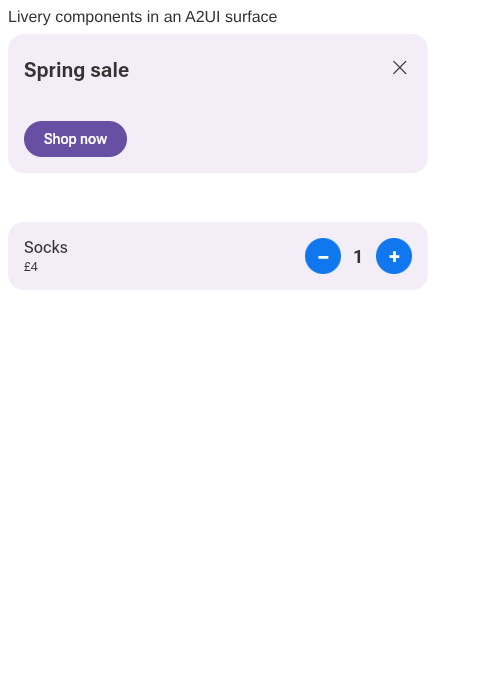
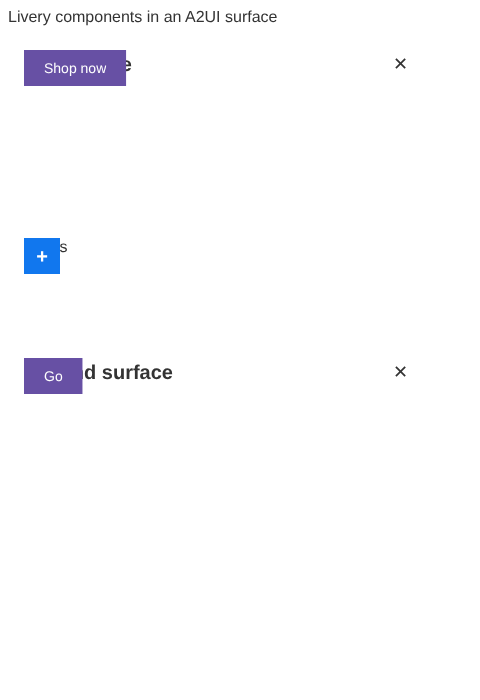
docs: the web component on the TypeScript player, and its known gaps
Claude-Session: https://claude.ai/code/session_017xSuvptvDKqjeZ4p7Mu1Nr

diff --git a/web/a2ui/src/catalog.ts b/web/a2ui/src/catalog.ts
@@ -224,6 +224,15 @@ class LiveryElement extends A2uiLitElement {
       if (previous !== undefined) session.release(previous);
     }
 
+    /**
+     * A host named action, exactly as the player's callback delivers one. @internal For tests: the
+     * TypeScript player doesn't fire these templates' taps yet (docs/A2UI.md), so the browser test
+     * delivers the action the document would send.
+     */
+    liveryHostAction(a: NamedAction): Promise<void> {
+      return this.onAction(a);
+    }
+
     private async onAction(a: NamedAction): Promise<void> {
       const api = this.livery;
       if (this.render_ === undefined || !api) return;

diff --git a/docs/A2UI.md b/docs/A2UI.md
@@ -273,7 +273,7 @@ action kind.
 | `livery publish` | CLI | writes `a2ui-catalog.json` beside `manifest.json`, so an agent in any language (A2UI's agent SDKs are Python and TypeScript) is prompted with the same schema the clients advertise |
 | `livery-mcp` | CLI | `a2ui_component_schema(contract)` and `validate_a2ui(message)`, for an agent authoring an A2UI response against a catalog |
 | `livery-web` *(built)* | Wasm (browsers, Node), and the JVM for its tests | **The pipeline, for the web.** `LiveryA2uiWeb`: the playable components, `render` (catalog selection or the agent's admitted document, `ContractBinder`, then `TemplateInstantiator` writes the values in), and `action` (`ActionGate`, then the agent, a `set`, or the page's handler), exported to JavaScript as a small JSON API. `WebCrypto` in `livery-client` verifies signatures and blobs |
-| `@livery/a2ui` *(built, `web/a2ui`)* | browsers | **Renders on the web.** `liveryCatalog(session, {catalogId, playerUrl})`: A2UI's basic catalog plus one Lit component (`A2uiLitElement`) per contract, its Zod schema from A2UI's own dynamic types, playing `livery-web`'s bytes in rc-players' Wasm player (`@yschimke/remote-compose-player-cmp`) |
+| `@livery/a2ui` *(built, `web/a2ui`)* | browsers | **Renders on the web.** `liveryCatalog(session, {catalogId})`: A2UI's basic catalog plus one Lit component (`A2uiLitElement`) per contract, its Zod schema from A2UI's own dynamic types, drawing in the page with the TypeScript Remote Compose player and setting named values live (see the gaps below) |
 | Swift `LiveryA2UI` | iOS, macOS | the same component over `LiveryTemplateView`, for A2UI's SwiftUI renderer once it is published |
 
 ### One source, two A2UI artifacts on Compose
@@ -294,15 +294,22 @@ moves with it, as a2ui-catalog does.
 *Built*: [`web/a2ui`](../web/a2ui) (`@livery/a2ui`) over [`livery-web`](../livery-web), checked in
 headless Chromium by CI (`web` job).
 
-![The sample catalog's promo banner and quantity row in an A2UI surface, in headless Chromium](images/a2ui-web.png) There is no TypeScript port: the web runs Kotlin's own
+![The sample catalog in an A2UI surface, drawn in the page by the TypeScript player, with its known gaps](images/a2ui-web.png) There is no TypeScript port: the web runs Kotlin's own
 selection, trust, binding, instantiation and action gate, compiled to Wasm, so it can't drift from
 the other clients and needs no fixture of its own beyond the ones Kotlin already passes.
 
-- **Drawing.** rc-players' Wasm player in an iframe, over its documented `postMessage` contract
-  (`rc-player-load` with bytes, `rc-player-state`, `cp-rc-host-named-action`). Its named values
-  are set only when the page loads, so instead `livery-web` writes the values into the document
-  (`TemplateInstantiator`, as for widget hosts) and the player swaps documents in place, keeping
-  its Wasm module. A data-model change is a new document.
+- **Drawing.** The TypeScript Remote Compose player (vendored from rc-players, `web/a2ui/vendor`)
+  on a canvas in the component itself: no iframe. A document is loaded once and its named values
+  are set on it while it plays (`createHostApi`), so a data-model change moves values and never
+  reloads the document, as `LiveryTemplate` does on Compose. Only what that player can't set live
+  is written into the document (`TemplateInstantiator`): bound images (`livery:value/<input>`) and
+  `long` values; a change to one of those is a new document.
+- **Known gaps of that player** on these templates (checked on a bare page, without Livery): it
+  draws no surface backgrounds or rounded shapes, overlaps a Column's children, and doesn't fire a
+  click modifier's host named action, so a tap doesn't reach the agent yet. Livery's side of a tap
+  (the gate, the agent's event, a `set` into the data model) is tested by delivering the action as
+  the player's callback would. Next: fix the player, then (optionally) an in-page embed of the
+  Compose Multiplatform player for the same pixels as Android.
 - **The component.** One `A2uiLitElement` per contract, registered with
   `basicCatalog.derive({catalogId, components: [...basic, ...livery]})`. Inputs and lists come
   resolved from A2UI's controller; `actions`, `template` and a `set` input's `{"path"}` binding are
@@ -430,8 +437,9 @@ What the prototype taught, and what it doesn't do yet:
    inline path agree. Still to do: `sha256` (+ `url`) against the trusted manifests, and the
    `query` form with `livery-server`'s decision endpoint.
 6. `@livery/a2ui`. *Done* without a TypeScript port: `livery-web` (Kotlin, compiled to Wasm) and
-   a Lit component per contract over rc-players' web player (above). Still to do: React and
-   Angular wrappers, publishing to npm, and a Binaryen-optimised build of the module (4.7 MB now).
+   a Lit component per contract, drawing in the page with the TypeScript player and live named
+   values (above). Still to do: the TypeScript player's gaps on these templates, React and Angular
+   wrappers, publishing to npm, and a Binaryen-optimised build of the module (4.7 MB now).
 
 ## Open questions
 

diff --git a/web/a2ui/README.md b/web/a2ui/README.md
@@ -2,9 +2,14 @@
 
 Livery contracts as [A2UI](https://a2ui.org) components on the web, for A2UI's Lit renderer
 (`@a2ui/lit`). An agent places a component per contract and sends its data. The page then picks a
-reviewed, signed template for it, binds the data through the contract, and plays the template in
-rc-players' Remote Compose web player. Actions in the template become A2UI events, or are written
+reviewed, signed template for it, binds the data through the contract, and plays the template on a
+canvas in the page with the TypeScript Remote Compose player. A data change sets named values on the
+playing document; it never reloads it. Actions in the template become A2UI events, or are written
 back to the data model.
+
+**Known gaps.** On Livery's sample templates the TypeScript player doesn't yet draw surface
+backgrounds or rounded shapes, overlaps a column's children, and doesn't fire taps. Its fixes come
+next (docs/A2UI.md).
 
 The work is done by Livery's own Kotlin client compiled to Wasm (`livery-web`), which this package
 ships in `dist/livery-web/`. That covers selection, trust, binding, instantiation and the action
@@ -24,7 +29,6 @@ const session = await LiverySession.open({
 });
 const { catalog } = await liveryCatalog(session, {
   catalogId: 'https://example.com/a2ui/catalog/v1',   // what the client advertises
-  playerUrl: '/rc-player/index.html',                 // @yschimke/remote-compose-player-cmp's dist/
   onAppAction: (kind, action, args) => { /* navigate, … */ },
   onProblem: (component, message) => { /* tell the agent */ },
 });
@@ -37,12 +41,9 @@ at publish time.
 
 ### Serving
 
-The page serves three things:
-
-- **The player:** `@yschimke/remote-compose-player-cmp`'s `dist/`, with `.wasm` sent as
-  `application/wasm`.
-- **This package's `dist/livery-web/`:** it is fetched beside `dist/livery.js`.
-- **The catalog:** its `manifest.json` and blobs.
+The page serves this package's `dist/livery-web/` (fetched beside `dist/livery.js`, `.wasm` as
+`application/wasm`) and the catalog (its `manifest.json` and blobs). The player is in the bundle:
+`vendor/remote-compose-player.mjs` (vendor/PROVENANCE.md).
 
 The module's glue imports `@js-joda/core`, a dependency of this package. A bundler resolves it; a
 page without one uses an import map.
@@ -69,7 +70,7 @@ npm test                                                    # headless Chromium 
 `npm test` serves the sample catalog to a page that runs A2UI's own engine and Lit renderer, then
 checks four things:
 
-- both templates play;
-- the banner draws its surface and text;
-- an action reaches the agent with only its declared arguments;
-- a `set` writes the data model, and a data-model update redraws the component.
+- both templates draw on a canvas in the page, with no iframe;
+- an action reaches the agent with only its declared arguments, and a `set` writes the data model;
+- a data change sets values on the playing document without reloading it, and redraws it;
+- a second catalog's components keep their own session.
